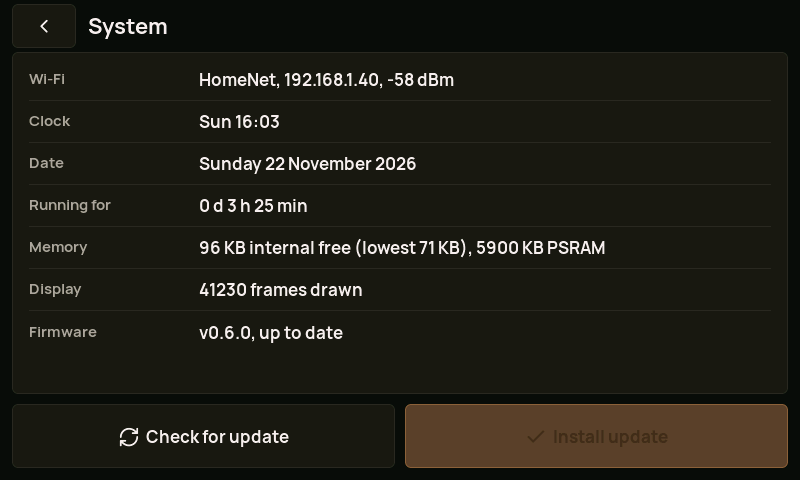
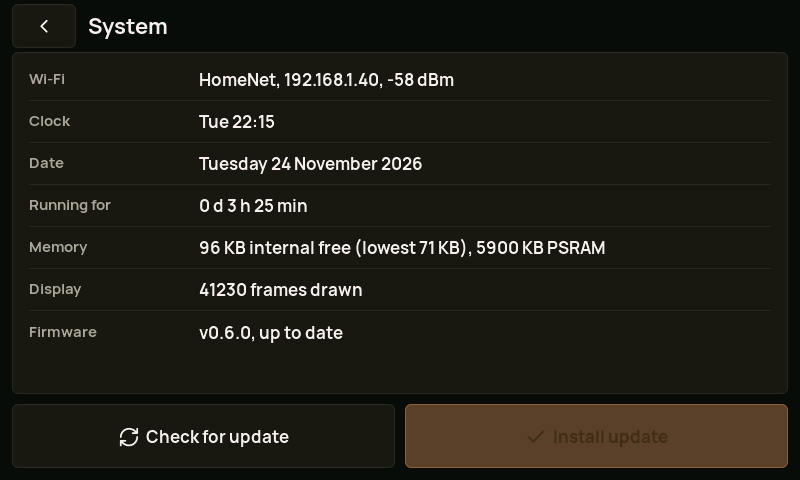
Docs: regenerate the touchscreen screenshots and add the missing screens
Re-renders every screen with the desktop preview so docs/screens holds the
full set (31 shots, 11 of them new: zone setting, frost, floor hold, hold,
toast, timezone picker, scanning, updating, Matter pairing and paired, PIN
on), and adds a gallery README with how to regenerate them.

Claude-Session: https://claude.ai/code/session_01Gw18PXyBY5VpnUr3LMX2YH

Changed region(s): [[0.25, 0.3125, 0.5312, 0.375], [0.25, 0.2188, 0.3438, 0.2812]]

diff --git a/docs/screens/README.md b/docs/screens/README.md
@@ -1,0 +1,51 @@
+# Touchscreen screens
+
+Every screen of the Copper UI as the firmware draws it, at the panel's native
+800x480. They are rendered on the host by the desktop preview in
+`tools/ui_preview`, which runs the real `ui` component against fake data, so
+they match the code rather than a mock-up. The clock in each shot is the time
+the preview was run.
+
+To regenerate them:
+
+```sh
+cmake -S tools/ui_preview -B build-preview
+cmake --build build-preview -j
+./build-preview/ui_preview docs/screens
+```
+
+CI renders the same set on every push (the "UI preview screenshots" job, artifact `ui-screenshots`).
+
+| Screen | |
+|---|---|
+| 01-dashboard-empty | ![01-dashboard-empty](01-dashboard-empty.png) |
+| 02-dashboard | ![02-dashboard](02-dashboard.png) |
+| 03-quick-adjust | ![03-quick-adjust](03-quick-adjust.png) |
+| 04-zone-heating | ![04-zone-heating](04-zone-heating.png) |
+| 05-zone-setting | ![05-zone-setting](05-zone-setting.png) |
+| 06-zone-frost | ![06-zone-frost](06-zone-frost.png) |
+| 07-zone-offline | ![07-zone-offline](07-zone-offline.png) |
+| 08-zone-floor-hold | ![08-zone-floor-hold](08-zone-floor-hold.png) |
+| 09-zone-fault | ![09-zone-fault](09-zone-fault.png) |
+| 10-zone-hold | ![10-zone-hold](10-zone-hold.png) |
+| 11-dashboard-toast | ![11-dashboard-toast](11-dashboard-toast.png) |
+| 12-hot-water | ![12-hot-water](12-hot-water.png) |
+| 13-hot-water-boost | ![13-hot-water-boost](13-hot-water-boost.png) |
+| 14-schedule | ![14-schedule](14-schedule.png) |
+| 15-schedule-edit | ![15-schedule-edit](15-schedule-edit.png) |
+| 16-hot-water-timer | ![16-hot-water-timer](16-hot-water-timer.png) |
+| 17-rename | ![17-rename](17-rename.png) |
+| 18-settings | ![18-settings](18-settings.png) |
+| 19-settings-timezone | ![19-settings-timezone](19-settings-timezone.png) |
+| 20-zones-scanning | ![20-zones-scanning](20-zones-scanning.png) |
+| 21-zones | ![21-zones](21-zones.png) |
+| 22-bus-diagnostics | ![22-bus-diagnostics](22-bus-diagnostics.png) |
+| 22b-bus-diagnostics-scrolled | ![22b-bus-diagnostics-scrolled](22b-bus-diagnostics-scrolled.png) |
+| 23-system | ![23-system](23-system.png) |
+| 23b-system-update | ![23b-system-update](23b-system-update.png) |
+| 23c-system-install | ![23c-system-install](23c-system-install.png) |
+| 23d-system-updating | ![23d-system-updating](23d-system-updating.png) |
+| 25-matter-pairing | ![25-matter-pairing](25-matter-pairing.png) |
+| 26-matter-paired | ![26-matter-paired](26-matter-paired.png) |
+| 27-pin-entry | ![27-pin-entry](27-pin-entry.png) |
+| 28-settings-pin-on | ![28-settings-pin-on](28-settings-pin-on.png) |

diff --git a/README.md b/README.md
@@ -18,7 +18,7 @@ is put together as built is in [docs/architecture.md](docs/architecture.md).
 | `hm_poller`: the bus task running `hm_sched` on the board | Done, bench proven (milestone 2) |
 | `zone_store`: saved zone list and names in NVS, a live view of each stat (including its programme), pending writes with failure notices, hot water boost and overrides that survive a restart, clock sync that keeps setpoint overrides, holiday for all, bus counters and frame trace | Done; the view, programme helpers and saved format are host tested |
 | `board`: Waveshare 7" RGB panel with bounce buffers, GT911 touch, CH422G backlight, LVGL 9 via esp_lvgl_port | Done, bench proven (milestone 3 soak) |
-| `ui`: the Copper design. Dashboard, zone detail, hot water with boost, schedule and hot water timer editing, rename keyboard, settings, zones and scan, bus diagnostics, system | Built; desktop preview renders every screen ([docs/screens](docs/screens/)) |
+| `ui`: the Copper design. Dashboard, zone detail, hot water with boost, schedule and hot water timer editing, rename keyboard, settings, zones and scan, bus diagnostics, system and firmware update, Matter pairing, settings PIN | Built; desktop preview renders every screen ([docs/screens](docs/screens/)) |
 | `net`: Wi-Fi station, SNTP clock, timezone (Matter drives Wi-Fi when it runs) | Built |
 | `matter_bridge`: esp-matter bridge, an Aggregator and one bridged Thermostat per zone with saved endpoint IDs; setpoint, Heat/Off and key lock both ways; pairing screen with QR code and controller list | Done, bench proven with Aqara Hub M3 and Apple Home (milestone 4); mapping host tested |
 | `matter_bridge`, milestone 5: the PRT/HW-N's hot water as a bridged On/Off Plug-in Unit ("Hot water") with a saved endpoint ID. On boosts for 60 min, Off holds the water off until the timer period ends; never forced for good | Done, bench proven with Aqara Hub M3 and Apple Home (milestone 5); switch logic host tested |
